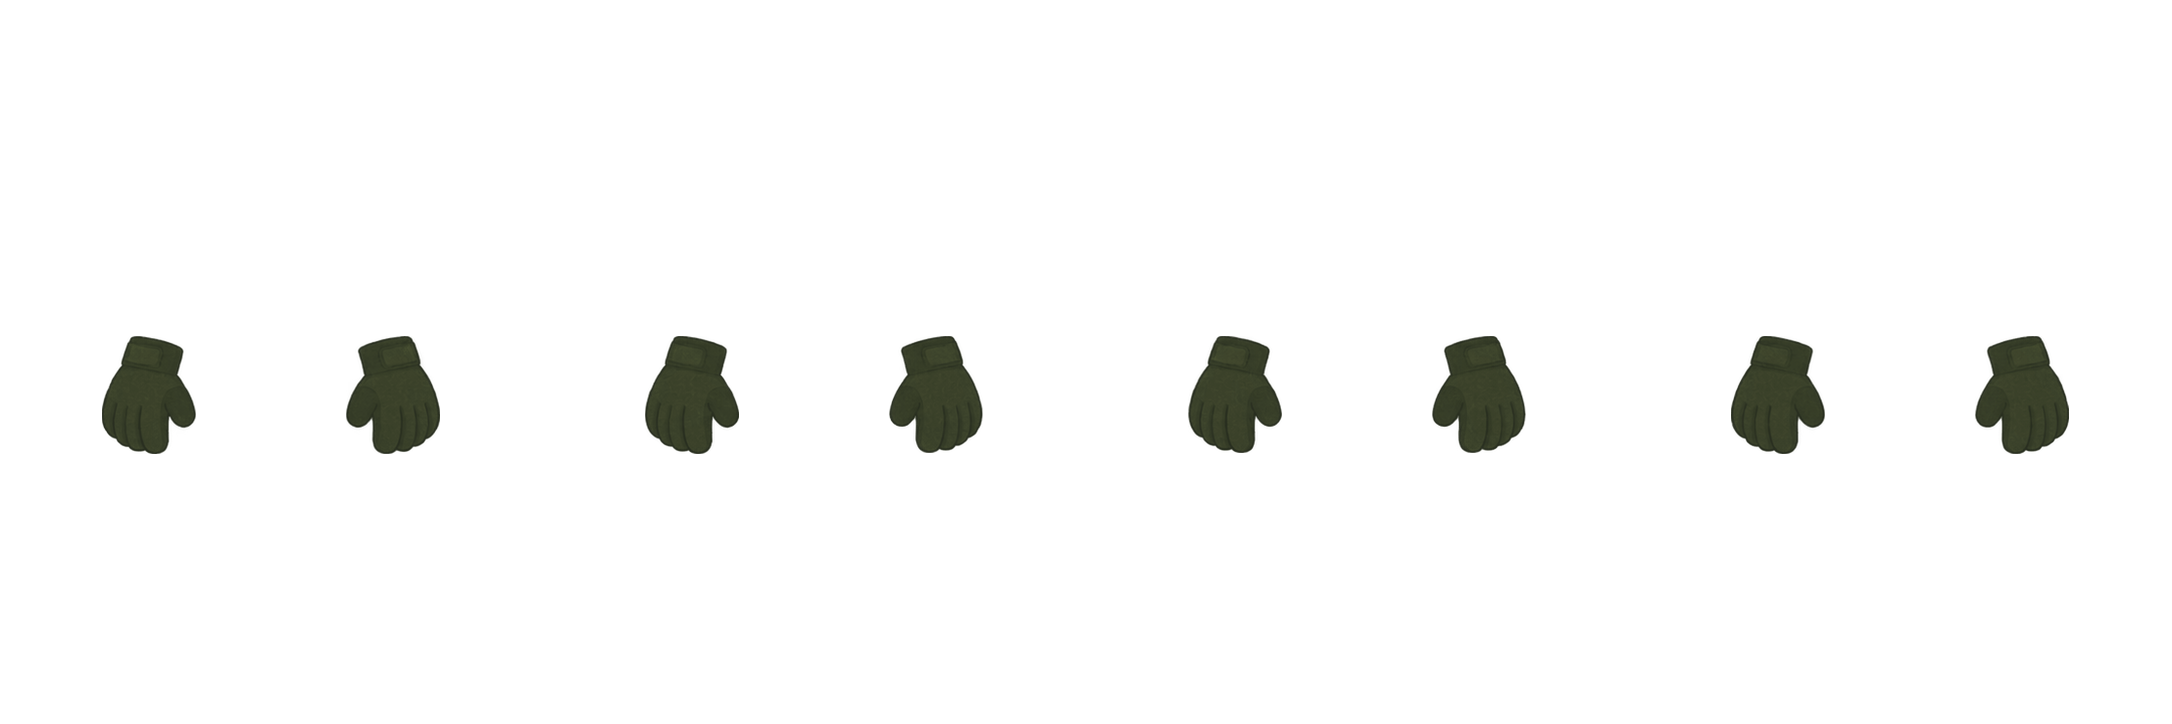
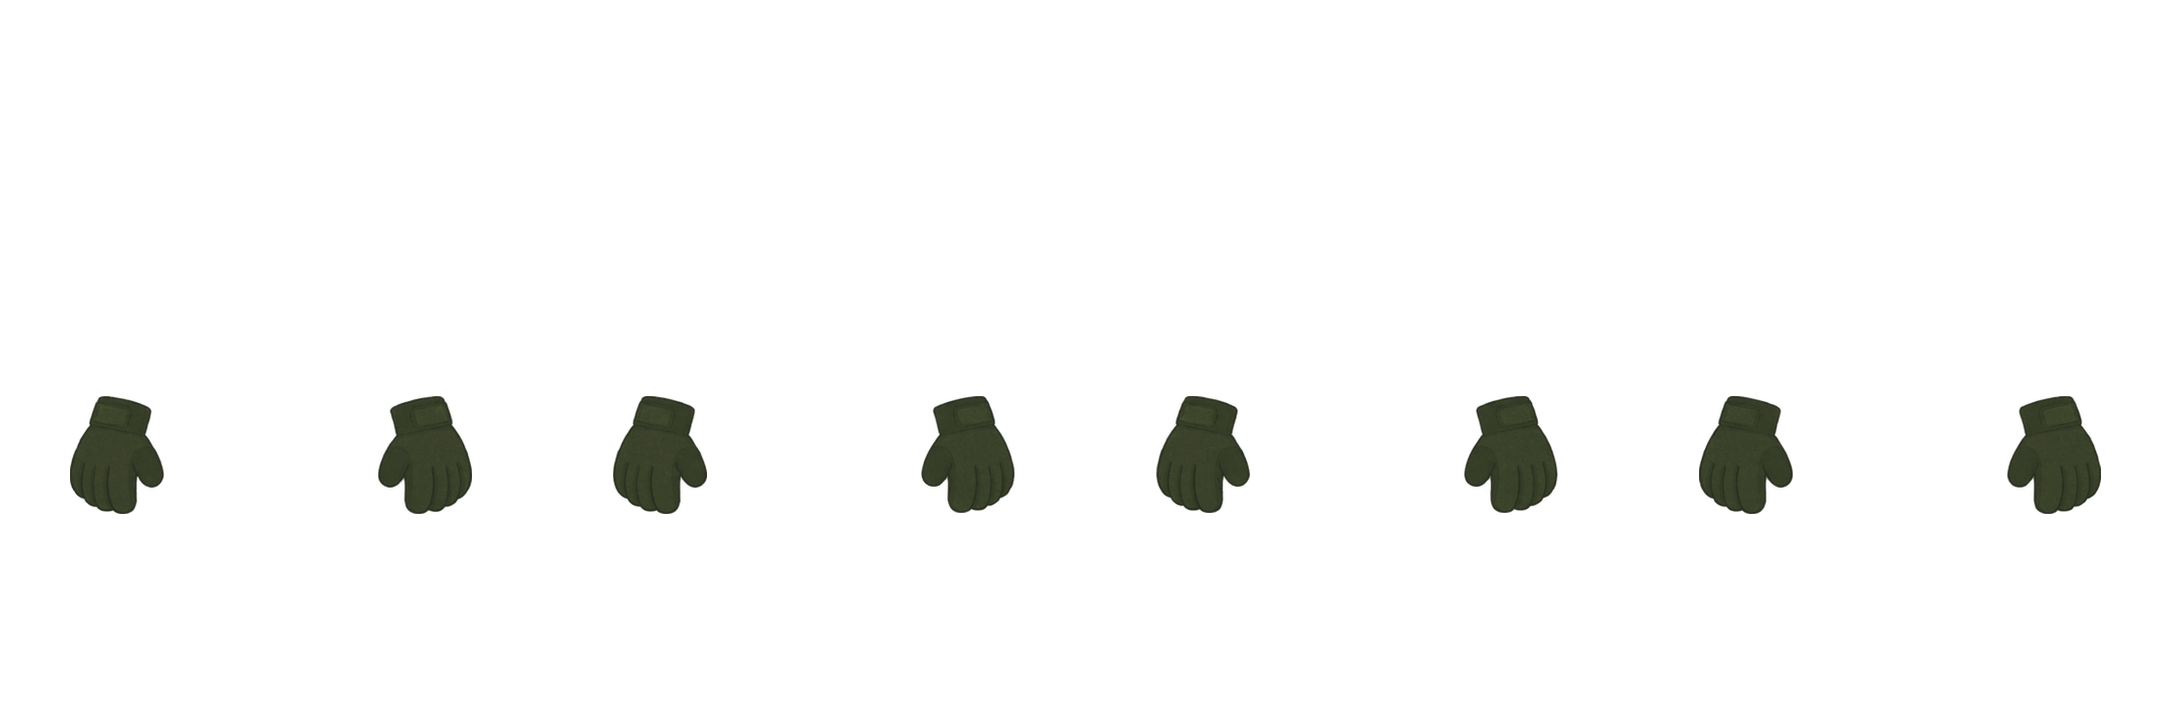
fix: anchor gloves and poles to hands

diff --git a/index.html b/index.html
@@ -14,19 +14,19 @@
 <link rel="preconnect" href="https://fonts.googleapis.com">
 <link rel="preconnect" href="https://fonts.gstatic.com" crossorigin>
 <link href="https://fonts.googleapis.com/css2?family=Spectral:ital,wght@0,400;0,600;1,400&family=Caveat:wght@500;700&display=swap" rel="stylesheet">
-<link rel="stylesheet" href="styles.css?v=0.5.11">
-<script defer src="src/config.js?v=0.5.11"></script>
-<script defer src="src/data.js?v=0.5.11"></script>
-<script defer src="src/state.js?v=0.5.11"></script>
-<script defer src="src/content.js?v=0.5.11"></script>
-<script defer src="src/game.js?v=0.5.11"></script>
-<script defer src="src/map-routes.js?v=0.5.11"></script>
+<link rel="stylesheet" href="styles.css?v=0.5.12">
+<script defer src="src/config.js?v=0.5.12"></script>
+<script defer src="src/data.js?v=0.5.12"></script>
+<script defer src="src/state.js?v=0.5.12"></script>
+<script defer src="src/content.js?v=0.5.12"></script>
+<script defer src="src/game.js?v=0.5.12"></script>
+<script defer src="src/map-routes.js?v=0.5.12"></script>
 <script defer src="vendor/pixi.min.js"></script>
-<script defer src="src/diorama.js?v=0.5.11"></script>
-<script defer src="src/visuals.js?v=0.5.11"></script>
-<script defer src="src/home-cards.js?v=0.5.11"></script>
-<script defer src="src/home.js?v=0.5.11"></script>
-<script defer src="src/bootstrap.js?v=0.5.11"></script>
+<script defer src="src/diorama.js?v=0.5.12"></script>
+<script defer src="src/visuals.js?v=0.5.12"></script>
+<script defer src="src/home-cards.js?v=0.5.12"></script>
+<script defer src="src/home.js?v=0.5.12"></script>
+<script defer src="src/bootstrap.js?v=0.5.12"></script>
 </head>
 <body>
 <main id="app"></main>

diff --git a/src/config.js b/src/config.js
@@ -1,5 +1,5 @@
 globalThis.GAME_CONFIG=Object.freeze({
  name:'Blisterborn',
- version:'0.5.11',
+ version:'0.5.12',
  storageKey:'blisterlands'
 });

diff --git a/scripts/build-character-layers.py b/scripts/build-character-layers.py
@@ -151,7 +151,7 @@ def fit_gloves(image: Image.Image) -> Image.Image:
     cell_width = SIZE[0] // 4
     for index in range(4):
         cell = image.crop((index * cell_width, 0, (index + 1) * cell_width, SIZE[1]))
-        for side, offset in ((0, -122), (1, 122)):
+        for side, offset in ((0, -154), (1, 154)):
             half = cell.crop((side * cell_width // 2, 0, (side + 1) * cell_width // 2, SIZE[1]))
             source = visible_bbox(half)
             if not source:
@@ -159,7 +159,7 @@ def fit_gloves(image: Image.Image) -> Image.Image:
             content = half.crop(source)
             content.thumbnail((94, 126), Image.Resampling.LANCZOS)
             center = index * cell_width + cell_width // 2 + offset
-            sheet.alpha_composite(content, (center - content.width // 2, 336))
+            sheet.alpha_composite(content, (center - content.width // 2, 396))
     return sheet
 
 
@@ -329,7 +329,7 @@ for kind, filename in MASTERS.items():
                 if kind == "gaiters":
                     paired = fit_pair(brand_sheet, 482, 618, 72, 78)
                 else:
-                    paired = fit_pair(brand_sheet, 315, 676, 150, 74)
+                    paired = fit_pair(brand_sheet, 382, 698, 154, 68)
                 rendered = Image.new("RGBA", SIZE)
                 source_cell = paired.crop((brand_index * SIZE[0] // 4, 0, (brand_index + 1) * SIZE[0] // 4, SIZE[1]))
                 for character in range(4):

diff --git a/README.md b/README.md
@@ -28,7 +28,7 @@ GitHub Pages può pubblicare direttamente la radice del branch `main`. Il servic
 
 ## Versione
 
-Prototipo `0.5.11`.
+Prototipo `0.5.12`.
 
 Le tappe 2–8 usano 42 panorami isometrici autonomi in alta risoluzione (1254×1254), senza ritagli da atlanti condivisi.
 
